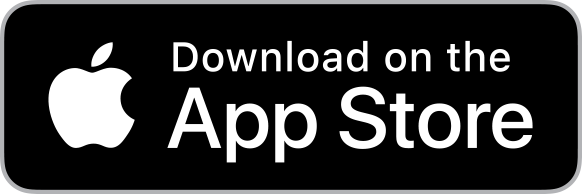
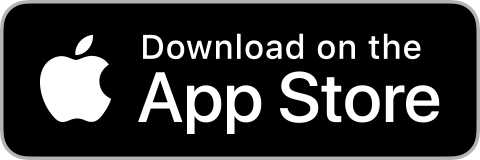
Google play

diff --git a/pages/index.js b/pages/index.js
@@ -10,6 +10,7 @@ import Footer from '../components/shared/Footer';
 import Logo from '../assets/logo.png';
 import AppIcon from '../assets/app-icon.png';
 import AppStore from '../assets/appstore.png';
+import PlayStore from '../assets/playstore.png';
 
 const Header = styled.header`
   align-items: center;
@@ -93,9 +94,7 @@ const Main = styled.div`
   }
 `;
 
-const IconLink = styled.a`
-  cursor: pointer;
-  text-decoration: none;
+const IconLink = styled.div`
   margin-bottom: 30px;
 
   img {
@@ -122,8 +121,24 @@ const AppStoreLink = styled.a`
   margin-top: 30px;
 
   img {
-    height: 97px;
-    width: 291px;
+    height: 80px;
+    width: 240px;
+    transition: all 0.15s ease;
+  }
+
+  &:hover img {
+    transform: scale(1.05, 1.05);
+  }
+`;
+
+const PlayStoreLink = styled.a`
+  cursor: pointer;
+  text-decoration: none;
+  margin-top: 30px;
+
+  img {
+    height: 80px;
+    width: 270px;
     transition: all 0.15s ease;
   }
 
@@ -149,11 +164,9 @@ const Index = () => <Page>
         }} />
     </Video>
     <Main>
-      <Link href="https://itunes.apple.com/us/app/super-supermarket/id1435484076?ls=1&mt=8&at=1010lwVg&ct=supersupermarket-site" passHref>
-        <IconLink>
-          <img src={AppIcon} alt="App Icon"/>
-        </IconLink>
-      </Link>
+      <IconLink>
+        <img src={AppIcon} alt="App Icon"/>
+      </IconLink>
       <Description>
         <Color color="green">RACE</Color> through supermarkets! <Color color="yellow">COLLECT</Color> as many groceries as you can! <Color color="red">UPGRADE</Color> your cart and <Color color="blue">WIN</Color> a spot on the local or global shopping list!
       </Description>
@@ -161,6 +174,12 @@ const Index = () => <Page>
         <AppStoreLink>
           <img src={AppStore} alt="Download on the app store"/>
         </AppStoreLink>
+      </Link>
+
+      <Link href="https://play.google.com/store/apps/details?id=co.northplay.SuperSupermarket" passHref>
+        <PlayStoreLink>
+          <img src={PlayStore} alt="Download on Google Play Store"/>
+        </PlayStoreLink>
       </Link>
     </Main>
   </Split>

diff --git a/components/shared/JoinTheClub/index.js b/components/shared/JoinTheClub/index.js
@@ -16,6 +16,8 @@ const Container = styled.div`
   z-index: 10;
   position: relative;
   margin-top: 80px;
+  font-family: 'Helvetica Neue', Helvetica, sans-serif;
+  font-size: 14px;
 
   @media (max-width: 880px) {
     flex-wrap: wrap;
